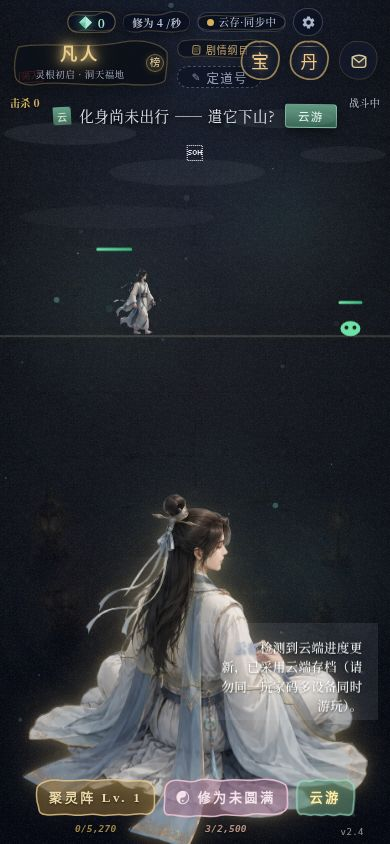
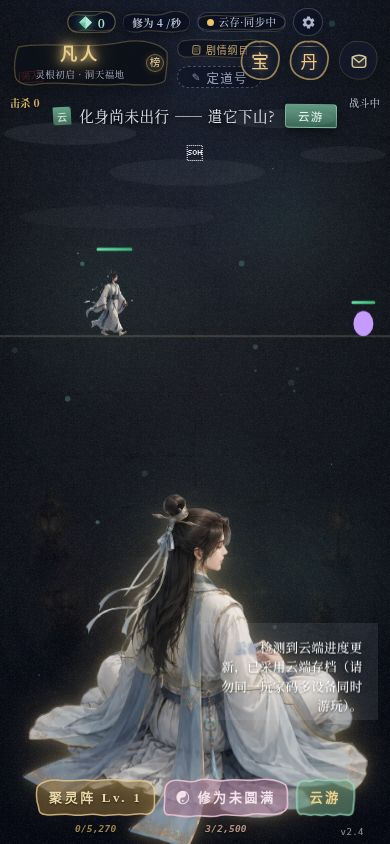
接入真实史莱姆素材: 移除占位怪物图形, 用monster_001_green_slime.png渲染, 支持walk/attack/hurt三态动画, 面朝左

Changed region(s): [[0.2154, 0.3081, 0.4, 0.4005], [0.8615, 0.3389, 0.9538, 0.4005], [0.8, 0.9242, 0.8615, 0.955]]

diff --git a/index.html b/index.html
@@ -743,9 +743,15 @@
   const bgImg = new Image();
   bgImg.onload = function() { G.bgImg = bgImg; G.bgReady = true; };
   bgImg.src = 'assets/main-bg.jpg';
+  /* 怪物素材: 绿色史莱姆 */
+  const slimeImg = new Image();
+  slimeImg.onload = function() { G.slimeSprite = slimeImg; G.slimeReady = true; };
+  slimeImg.src = 'assets/monster_001_green_slime.png';
 
-  /* Sprite 帧配置: 8列7行, 每帧240x128, walk=0-15, attack=16-55 */
+  /* Sprite 帧配置: 玩家 */
   const SPRITE = { cols:9, fw:240, fh:128, walkStart:0, walkCount:32, attackStart:32, attackCount:40, fps:24 };
+  /* 史莱姆帧配置: 12列8行, walk32+attack51+hurt11 */
+  const SLIME_SPRITE = { cols:12, fw:240, fh:128, walkStart:0, walkCount:32, attackStart:32, attackCount:51, hurtStart:83, hurtCount:11, fps:24 };
 
   window.BattleAPI = {
     getKills: () => G.kills,
@@ -1040,30 +1046,47 @@
     for (const e of G.enemies) {
       if (!e.alive && e.dying <= 0) continue;
       const sx = worldToScreen(e.x); const sy = floorY();
-      ctx.save(); ctx.translate(sx, sy);
-      if (e.dying > 0) ctx.globalAlpha = e.dying/0.4;
-      if (e.hurtT > 0) { ctx.globalAlpha *= 0.6; ctx.filter = 'brightness(2)'; }
-      if (e.type === 'slime') {
-        const w = Math.min(20, CH*0.15), h = Math.min(15, CH*0.12);
-        ctx.fillStyle = e.color; ctx.beginPath(); ctx.ellipse(0,-h/2,w/2,h/2,0,0,Math.PI*2); ctx.fill();
-        ctx.fillStyle = '#1a2a1a'; ctx.beginPath(); ctx.arc(-4,-h/2-1,2,0,Math.PI*2); ctx.arc(4,-h/2-1,2,0,Math.PI*2); ctx.fill();
-      } else if (e.type === 'demon') {
-        const bodyH = Math.min(28, CH*0.22);
-        ctx.fillStyle = e.color; ctx.beginPath(); ctx.moveTo(-8,-bodyH); ctx.lineTo(8,-bodyH); ctx.lineTo(10,-4); ctx.lineTo(-10,-4); ctx.closePath(); ctx.fill();
-        ctx.fillStyle = '#8a4030'; ctx.beginPath(); ctx.arc(0,-bodyH-4,6,0,Math.PI*2); ctx.fill();
-        ctx.fillStyle = '#4a2010';
-        ctx.beginPath(); ctx.moveTo(-5,-bodyH-8); ctx.lineTo(-8,-bodyH-15); ctx.lineTo(-2,-bodyH-10); ctx.fill();
-        ctx.beginPath(); ctx.moveTo(5,-bodyH-8); ctx.lineTo(8,-bodyH-15); ctx.lineTo(2,-bodyH-10); ctx.fill();
-        ctx.fillStyle = '#ffdd44'; ctx.beginPath(); ctx.arc(-2,-bodyH-4,1.2,0,Math.PI*2); ctx.arc(2,-bodyH-4,1.2,0,Math.PI*2); ctx.fill();
+      /* 史莱姆真实 sprite 渲染 */
+      if (G.slimeReady && G.slimeSprite && e.type === 'slime') {
+        /* 根据状态选择帧 */
+        let frameIdx;
+        if (e.hurtT > 0) {
+          /* 受击动画: hurtT从0.25递减到0, 映射到hurt帧范围 */
+          const hurtProgress = 1 - (e.hurtT / 0.25);
+          frameIdx = SLIME_SPRITE.hurtStart + Math.min(Math.floor(hurtProgress * SLIME_SPRITE.hurtCount), SLIME_SPRITE.hurtCount-1);
+        } else if (e.anim > 0) {
+          /* 攻击动画: anim从1递减到0, 映射到attack帧范围 */
+          const atkProgress = 1 - e.anim;
+          frameIdx = SLIME_SPRITE.attackStart + Math.min(Math.floor(atkProgress * SLIME_SPRITE.attackCount), SLIME_SPRITE.attackCount-1);
+        } else {
+          /* 走路/待机循环: 用时间驱动 */
+          frameIdx = SLIME_SPRITE.walkStart + (Math.floor(G.t * SLIME_SPRITE.fps) % SLIME_SPRITE.walkCount);
+        }
+        const col = frameIdx % SLIME_SPRITE.cols;
+        const row = Math.floor(frameIdx / SLIME_SPRITE.cols);
+        const srcX = col * SLIME_SPRITE.fw;
+        const srcY = row * SLIME_SPRITE.fh;
+        /* 渲染尺寸: 比玩家小一点 */
+        const drawH = Math.min(CH * 0.4, 60);
+        const drawW = drawH * (SLIME_SPRITE.fw / SLIME_SPRITE.fh);
+        ctx.save();
+        ctx.translate(sx, sy);
+        if (e.dying > 0) ctx.globalAlpha = e.dying/0.4;
+        if (e.hurtT > 0) { ctx.globalAlpha *= 0.7; ctx.filter = 'brightness(1.8)'; }
+        /* 史莱姆面朝左, 素材本身就是面朝左, 不需要翻转 */
+        ctx.drawImage(G.slimeSprite, srcX, srcY, SLIME_SPRITE.fw, SLIME_SPRITE.fh, -drawW*0.5, -drawH, drawW, drawH);
+        ctx.restore();
+        if (e.alive) drawHpBar(sx, sy - drawH - 6, 28, e.hp, e.maxHp);
       } else {
+        /* 其他怪物类型暂用占位 */
+        ctx.save(); ctx.translate(sx, sy);
+        if (e.dying > 0) ctx.globalAlpha = e.dying/0.4;
+        if (e.hurtT > 0) { ctx.globalAlpha *= 0.6; ctx.filter = 'brightness(2)'; }
         const bodyH = Math.min(25, CH*0.2);
-        ctx.fillStyle = e.color; ctx.beginPath(); ctx.moveTo(-7,-bodyH); ctx.lineTo(7,-bodyH); ctx.lineTo(9,-4); ctx.lineTo(-9,-4); ctx.closePath(); ctx.fill();
-        ctx.fillStyle = '#6a4a8a'; ctx.beginPath(); ctx.arc(0,-bodyH-3,5.5,0,Math.PI*2); ctx.fill();
-        ctx.strokeStyle = '#8a6a4a'; ctx.lineWidth = 1.2;
-        ctx.beginPath(); ctx.arc(8,-bodyH*0.4,9,-Math.PI/2,Math.PI/2); ctx.stroke();
+        ctx.fillStyle = e.color; ctx.beginPath(); ctx.ellipse(0,-bodyH/2,10,bodyH/2,0,0,Math.PI*2); ctx.fill();
+        ctx.restore();
+        if (e.alive) drawHpBar(sx, sy-35, 24, e.hp, e.maxHp);
       }
-      ctx.restore();
-      if (e.alive) drawHpBar(sx, sy-35, 24, e.hp, e.maxHp);
     }
   }
 
